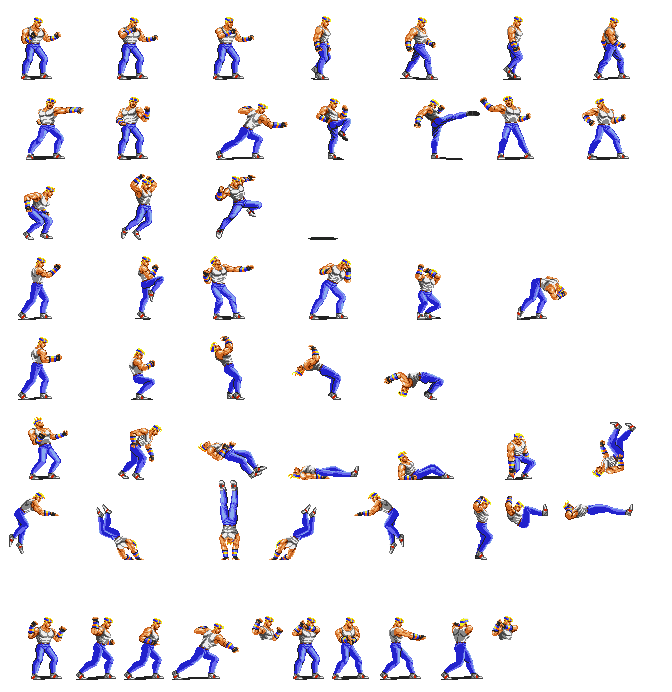
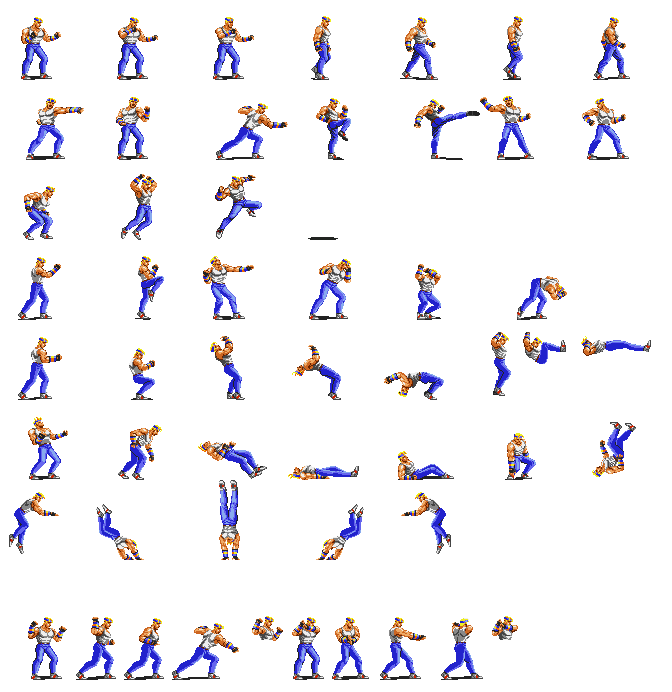
Player can now switch between front and back hold properly

Changed region(s): [[0.4062, 0.698, 0.9375, 0.8194], [0.7188, 0.4855, 0.9688, 0.5766]]

diff --git a/Player.cpp b/Player.cpp
@@ -59,6 +59,19 @@ bool Player::Update(unsigned int msec_elapsed, const bool upd_logic)
 					UpdateCurrentAnimation(&standing_up, standing_up_duration);
 				else if (current_animation == &holding_front_attack)
 					UpdateCurrentAnimation(&holding_front);
+				else if (current_animation == &holding_swap)
+				{
+					is_holding_back = !is_holding_back;	is_holding_front = !is_holding_front; 	facing_right = !facing_right;
+					position.y = ground_y;
+					if (is_holding_front)
+					{
+						held_entity->SetBeingHoldFront();	UpdateCurrentAnimation(&holding_front, 0, fx_landing_jump);
+					}
+					else if (is_holding_back)
+					{
+						held_entity->SetBeingHoldBack(); UpdateCurrentAnimation(&holding_back, 0, fx_landing_jump);
+					}
+				}
 			}
 
 
@@ -67,16 +80,16 @@ bool Player::Update(unsigned int msec_elapsed, const bool upd_logic)
 			{
 				if (air_remaining_msec > 0)
 				{
+					
 					if (respawn_fall == true)	
 					{
-
-						move_speed.y += 9;
 						air_remaining_msec -= msec_elapsed;
+						move_speed.y += 9;// TODO: CHANGE
 					}
 					else if (jumping)
 					{
 						air_remaining_msec -= msec_elapsed;
-						int divisor = jump_duration / 16;
+						int divisor =  jump_duration / 16;
 						int frames_left = air_remaining_msec / divisor;
 
 						switch (frames_left)
@@ -95,22 +108,38 @@ bool Player::Update(unsigned int msec_elapsed, const bool upd_logic)
 						case 11: move_speed.y -= 4; break;
 						case 12: move_speed.y -= 5; break;
 						case 13: move_speed.y -= 5; break;
-						case 14: move_speed.y -= 7; break;
-						case 15: move_speed.y -= 8; break;
+						case 14: move_speed.y -= 6; break;
+						case 15: move_speed.y -= 7; break;
 						}
 					}
-					else {
+					else if (is_holding_back || is_holding_front)
+					{
+						air_remaining_msec -= msec_elapsed;
+						int divisor = holding_swap_duration / 5;
+						int frames_left = air_remaining_msec / divisor;
+						int mod = facing_right ? 1 : -1;
+
+						holding_swap.SetCurrentFrame(4 - frames_left);
+						switch (frames_left)
+						{
+						case 4: SetPosition({ held_entity->position.x - mod*24, held_entity->position.y - 6 }); break;
+						case 3: SetPosition({ held_entity->position.x, held_entity->position.y - 50 }); break;
+						case 2: SetPosition({ held_entity->position.x, held_entity->position.y - 50}); break;
+						case 1: SetPosition({ held_entity->position.x, held_entity->position.y - 50 }); break;
+						case 0: SetPosition({ held_entity->position.x + mod*24 , held_entity->position.y - 6 }); break;
+						}
+					}
+					else
+					{
 						// falling after knockout or throw
 					}
+
 				}
 				if (air_remaining_msec <= 0)
 				{
 					respawn_fall = false;
-					if (position.y != ground_y)
-					{
-						move_speed.y = ground_y - position.y;
-						UpdatePosition(move_speed);
-					}
+					move_speed.y = 0;
+					position.y = ground_y;
 					UpdateCurrentAnimation(&jump_land, jump_prep_duration, fx_landing_jump);
 				}
 			}
@@ -129,10 +158,16 @@ bool Player::Update(unsigned int msec_elapsed, const bool upd_logic)
 				{
 					//throw
 				}
-				else if (input_attack && held_entity)
+				else if (input_attack )
 				{
 					held_entity->SetBeingHoldFrontHit(attack1_dmg);
 					UpdateCurrentAnimation(&holding_front_attack, attacks_duration, fx_attack_hit);
+				}
+				else if (input_jump)
+				{
+					UpdateCurrentAnimation(&holding_swap, holding_swap_duration, fx_jump);
+					air_remaining_msec = holding_swap_duration;
+					
 				}
 				else if ((facing_right == true && input_horizontal < 0 )|| (facing_right == false && input_horizontal > 0))
 				{
@@ -144,21 +179,22 @@ bool Player::Update(unsigned int msec_elapsed, const bool upd_logic)
 			}
 			else if (is_holding_back)
 			{
-				if (input_attack)
+				if (input_jump)
+				{
+					UpdateCurrentAnimation(&holding_swap, holding_swap_duration, fx_jump);
+					air_remaining_msec = holding_swap_duration;
+				}
+				else if (input_attack)
 				{
 					//throw smash
 				}
-				if ((facing_right == true && input_horizontal < 0) || (facing_right == false && input_horizontal > 0))
+				else if ((facing_right == true && input_horizontal < 0) || (facing_right == false && input_horizontal > 0))
 				{
 					held_entity->SetIdle();
 					held_entity = nullptr;
 					UpdateCurrentAnimation(&idle);
 					facing_right = !facing_right;
 				}
-			}
-			else if (is_being_hold_front)
-			{
-
 			}
 			else if (is_being_hold_back)
 			{
@@ -356,7 +392,7 @@ bool Player::LoadFromConfigFile(const char* file_path)
 	score = (int)json_object_dotget_number(root_object, "player.score");
 	help = (int)json_object_dotget_number(root_object, "player.help");
 
-// damages
+	//----------------------- damages ---------------------------
 
 	attack1_dmg = (int)json_object_dotget_number(root_object, "player.damage.attack1");
 	attack2_dmg = (int)json_object_dotget_number(root_object, "player.damage.attack2");
@@ -369,6 +405,11 @@ bool Player::LoadFromConfigFile(const char* file_path)
 	attacks_duration = (int)json_object_dotget_number(root_object, "player.duration.attacks");
 	jump_prep_duration = (int)json_object_dotget_number(root_object, "player.duration.jump_prep");
 	jump_duration = (int)json_object_dotget_number(root_object, "player.duration.jump");
+	being_hit_duration = (int)json_object_dotget_number(root_object, "player.duration.being_hit");
+	being_thrown_duration = (int)json_object_dotget_number(root_object, "player.duration.being_thrown");
+	being_knocked_duration= (int)json_object_dotget_number(root_object, "player.duration.being_knocked");
+	standing_up_duration = (int)json_object_dotget_number(root_object, "player.duration.standing_up");
+	holding_swap_duration = (int)json_object_dotget_number(root_object, "player.duration.holding_swap");
 
 //----------------------- colliders ---------------------------
 	j_array = json_object_dotget_array(root_object, "player.colliders.hit");
@@ -414,6 +455,7 @@ bool Player::LoadFromConfigFile(const char* file_path)
 	LoadAnimationFromJSONObject(root_object, "player.holding_front_attack", &holding_front_attack);
 	LoadAnimationFromJSONObject(root_object, "player.holding_front_attack2", &holding_front_attack2);
 	LoadAnimationFromJSONObject(root_object, "player.holding_back", &holding_back);
+	LoadAnimationFromJSONObject(root_object, "player.holding_swap", &holding_swap);
 	LoadSDLRectFromJSONObject(root_object, "player.shadow", &shadow);
 
 // ---------------------- sound effects ----------------------------

diff --git a/Entity.cpp b/Entity.cpp
@@ -45,6 +45,28 @@ void Entity::UpdatePosition(const iPoint new_speed)
 	
 }
 
+void Entity::SetPosition(const iPoint new_position)
+{
+	position = new_position;
+
+	if (grounded)
+		ground_y = position.y;
+
+
+	if (facing_right)
+	{
+		attack_collider->rect.x = position.x + attack_collider_offset.x;
+		hit_collider->rect.x = position.x + hit_collider_offset.x;
+	}
+	else
+	{
+		attack_collider->rect.x = position.x + -(attack_collider_offset.x + attack_collider->rect.w);
+		hit_collider->rect.x = position.x - (hit_collider_offset.x + hit_collider->rect.w);
+	}
+	attack_collider->rect.y = position.y + attack_collider_offset.y;
+	hit_collider->rect.y = position.y + hit_collider_offset.y;
+}
+
 
 bool Entity::Draw() const
 {
@@ -161,7 +183,7 @@ void Entity::UpdateCurrentAnimation(Animation *new_anim,  int block_anim_duratio
 			current_animation == &jump_attack ||
 			current_animation == &being_thrown ||
 			current_animation == &being_knocked 
-			)
+			|| current_animation == &holding_swap)
 			grounded = false;
 		else
 			grounded = true;
@@ -179,7 +201,9 @@ void Entity::UpdateCurrentAnimation(Animation *new_anim,  int block_anim_duratio
 			current_animation == &throwing_front ||
 			current_animation == &throwing_back ||
 			current_animation == &standing_up ||
-			current_animation == &jump_attack)
+			current_animation == &jump_attack ||
+			current_animation == &holding_swap
+			)
 			is_hittable = false;
 		else
 			is_hittable = true;
@@ -188,18 +212,20 @@ void Entity::UpdateCurrentAnimation(Animation *new_anim,  int block_anim_duratio
 		if (current_animation == &attack1 ||
 			current_animation == &attack2 ||
 			current_animation == &attack3 ||
+			//current_animation == &attack_back ||
 			current_animation == &jump_attack)
 			is_attacking = true;
 		else
 			is_attacking = false;
 		
 		// holding status
-		if (current_animation == &holding_front || current_animation == &holding_front_attack || current_animation == &holding_front_attack2 )
+		if (current_animation == &holding_front || current_animation == &holding_front_attack || current_animation == &holding_front_attack2 || 
+			(current_animation == &holding_swap && is_holding_front))
 			is_holding_front = true;
 		else
 			is_holding_front = false;
 
-		if (current_animation == &holding_back)
+		if (current_animation == &holding_back || (current_animation == &holding_swap && is_holding_back))
 			is_holding_back = true;
 		else
 			is_holding_back = false;

diff --git a/EntityManager.cpp b/EntityManager.cpp
@@ -347,9 +347,8 @@ void EntityManager::CheatCodes()
 	{
 		Entity *a = (Entity*) CreateEntity(Entity::Types::npc_garcia);
 		if (a != nullptr){
-			a->position.y = player->position.y;	
-			a->position.x = player->position.x + 150;
-			a->UpdatePosition({ 0,0 });
+			a->SetPosition({ player->position.x + 150, player->position.y });
+
 		}
 	}
 }

diff --git a/Entity.h b/Entity.h
@@ -34,6 +34,7 @@ public:
 	virtual bool Update(unsigned int msec_elapsed, const bool upd_logic = false);
 
 	virtual void UpdatePosition(const iPoint new_speed);
+	virtual void SetPosition(const iPoint new_position);
 	void UpdateCurrentAnimation(Animation *new_anim, int block_anim_duration = 0, int fx_new_anim = -1);
 
 	bool Draw() const;

diff --git a/Animation.h b/Animation.h
@@ -37,6 +37,11 @@ public:
 		return frames[(int)current_frame];
 	}
 
+	void SetCurrentFrame(int frame_num)
+	{
+		current_frame = (float)frame_num;
+	}
+
 	bool Finished() const
 	{
 		return loops > 0;
